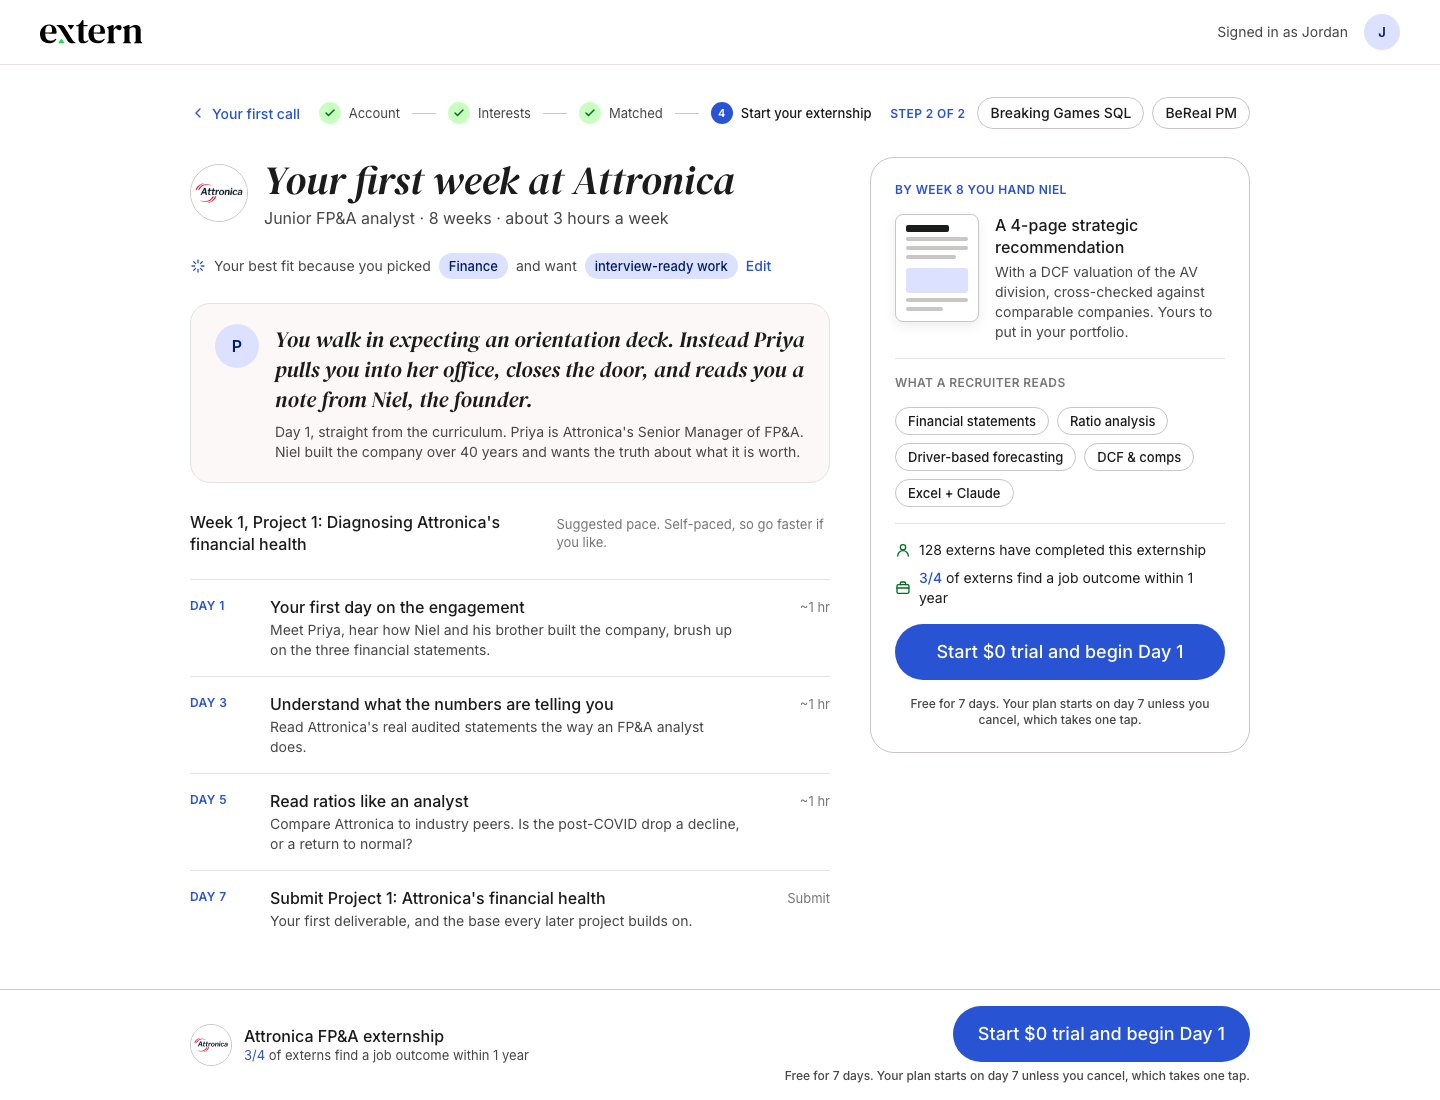
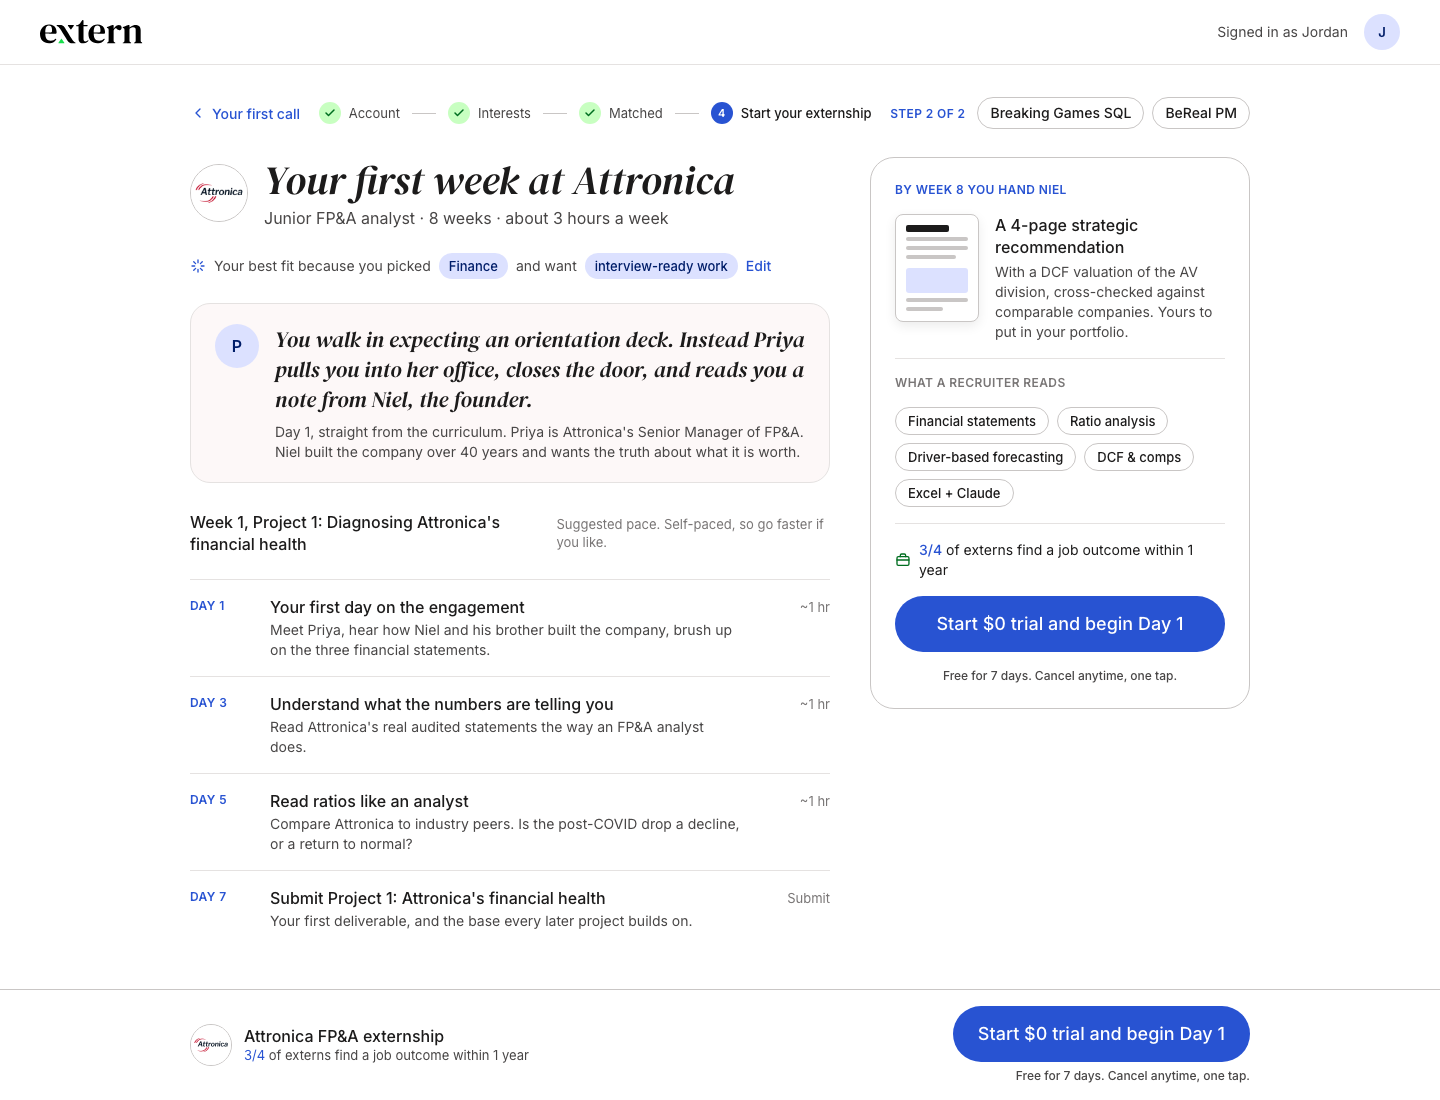
Recs redesign gallery: apply Vinny's board 1 notes

Changed region(s): [[0.625, 0.4945, 0.875, 0.68], [0.5625, 0.9582, 0.8438, 0.9891]]

diff --git a/recs-redesign/index.html b/recs-redesign/index.html
@@ -25,7 +25,7 @@ a{color:#2853d2}
 
 <div class="rubric" style="border-color:#2853d2;background:#f5f7ff"><b>The flow, one job per screen</b>
 <ol>
-<li><b>Choose</b> (board 1, plus phone). The three cards stay. The questionnaire is reflected back as editable chips, one card is badged Best fit with the reason, and every card gets a Day 1 row, a completer count, and a commitment button ("See first week") instead of the paywall.</li>
+<li><b>Choose</b> (board 1, plus phone). The three cards stay. The questionnaire is reflected back as two inline selectors, one card is badged Best fit with the reason under it, and every card gets a Day 1 row and a commitment button ("See first week") instead of the paywall.</li>
 <li><b>Do</b> (board 2). The Best fit button opens a 90-second real call lifted from Day 1 of the externship, with a one-tap skip. Answer it, get the principle, move on.</li>
 <li><b>Commit</b> (board 3). The first-week plan: Day 1 narrated from the curriculum, four real Project 1 steps, the week-8 deliverable, and the trial button.</li>
 <li><b>Who you become</b> (board 4). The post-checkout success page: trial active, the resume as it reads eight weeks out with the week each line is earned, and one button, Begin Day 1.</li>
@@ -39,7 +39,7 @@ A constant "$0 trial" state runs through every pre-checkout screen: the bottom b
 <li>One-screen checkout (appendix): separate the moment of selling from the moment of paying. Set aside; an express "buy it now" path is the variant worth testing later.</li>
 <li>Content source: the externship curricula, the same way Labs pulls it.</li>
 </ul>
-<b>What would help most from you:</b> what to cut to reduce density on boards 1 to 3; whether the progress stepper and the "Because you picked" chips earn their place; copy that reads as filler; where the next step is unclear; anything off-brand versus the live product.</div>
+<b>Applied from Vinny's notes (3 Sep, evening):</b> chips header replaced by two inline selectors; the Best fit reason moved to a caption under the card; "Matches" boxes on the other cards and completer counts on all cards removed; bar microcopy shortened to "Free for 7 days. Cancel anytime, one tap." Same treatment on the phone board and in the rails.<br><br><b>What would help most from you:</b> what to cut to reduce density on boards 1 to 3; whether the progress stepper and the "Because you picked" chips earn their place; copy that reads as filler; where the next step is unclear; anything off-brand versus the live product.</div>
 
 <div class="rubric"><b>How each board was judged</b> (1 to 10 on seven criteria from an onboarding research pass; criteria 1 and 4 count double)
 <ol><li>Something happens within 60 seconds</li><li>Personalization is visible, not claimed</li><li>A clear default plus legible differences</li><li>Commitment before the wall; the CTA continues an intention</li><li>Proof next to the CTA, specific to the project</li><li>Honest: no overclaim, no confidential figures, works on a phone</li><li>Extern brand fidelity, buildable with existing components</li></ol>
@@ -47,7 +47,7 @@ Real on every board: managers, Day 1 content, deliverables, skills, the job-outc
 
 <div class="board"><div class="note"><h2>0 · Today (baseline)</h2><span class="score low">4.9 / 10</span><div class="crit"><div><b>3</b>60s</div><div><b>3</b>person.</div><div><b>4</b>default</div><div><b>4</b>commit</div><div><b>5</b>proof</div><div><b>8</b>honest</div><div><b>10</b>brand</div></div>Reproduced from the live component for comparison. The page earns the click; it does not earn a commitment that survives the plan picker.</div><img src="shots/Today.png" alt="Today"></div>
 
-<div class="board"><div class="note"><h2>1 · Show your work (choose)</h2><span class="score">8.1 / 10</span><div class="crit"><div><b>7</b>60s</div><div><b>9</b>person.</div><div><b>9</b>default</div><div><b>8</b>commit</div><div><b>8</b>proof</div><div><b>8</b>honest</div><div><b>9</b>brand</div></div>Cards stay. The questionnaire is reflected back as editable chips; one card is Best fit with the reason; every card gets a Day 1 row, a completer count, hours and deliverable; the primary button is a commitment step, not the paywall. The 90-second call sits behind the Best fit button with a one-tap skip.<br><br>Research: Chernev on choice defaults, the PNAS defaults meta-analysis, Coursera's 2025 single top pick with a why, Airtable and Canva on visible personalization, Nunes and Dreze on endowed progress.</div><img src="shots/ShowYourWork.png" alt="Show your work"></div>
+<div class="board"><div class="note"><h2>1 · Show your work (choose)</h2><span class="score">8.1 / 10</span><div class="crit"><div><b>7</b>60s</div><div><b>9</b>person.</div><div><b>9</b>default</div><div><b>8</b>commit</div><div><b>8</b>proof</div><div><b>8</b>honest</div><div><b>9</b>brand</div></div>Cards stay. The questionnaire is reflected back as two inline selectors; one card is Best fit, with the reason as a caption under it; every card gets a Day 1 row, hours and deliverable; the primary button is a commitment step, not the paywall. The 90-second call sits behind the Best fit button with a one-tap skip.<br><br>Research: Chernev on choice defaults, the PNAS defaults meta-analysis, Coursera's 2025 single top pick with a why, Airtable and Canva on visible personalization, Nunes and Dreze on endowed progress.</div><img src="shots/ShowYourWork.png" alt="Show your work"></div>
 
 <div class="board"><div class="note"><h2>1m · Show your work, phone</h2><span class="score">8.1 / 10</span><div class="crit"><div><b>7</b>60s</div><div><b>9</b>person.</div><div><b>9</b>default</div><div><b>8</b>commit</div><div><b>8</b>proof</div><div><b>8</b>honest</div><div><b>9</b>brand</div></div>Best fit first with the button; the other two collapse to rows; the sticky footer names the selected project. A large share of first-time viewers are on phones and convert below desktop.</div><img class="phone" src="shots/ShowYourWorkMobile.png" alt="Phone"></div>
 
